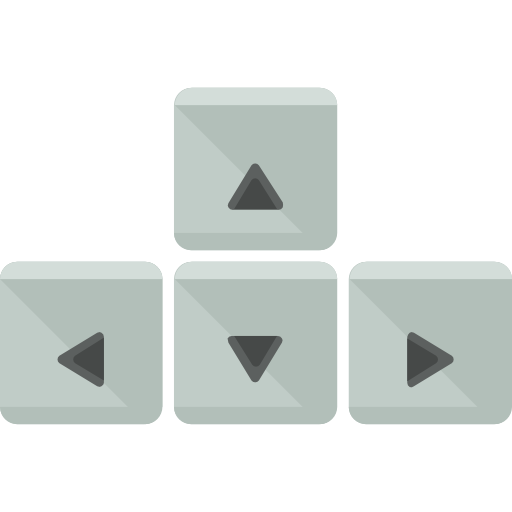
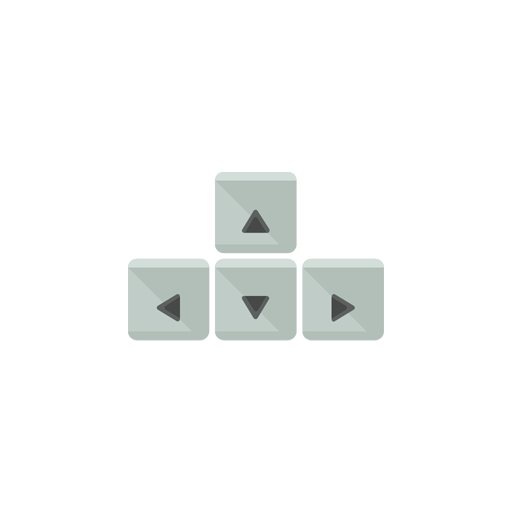
fix: styling

diff --git a/client/game/scenes/DestinationRoom.js b/client/game/scenes/DestinationRoom.js
@@ -2,6 +2,12 @@ import Phaser from 'phaser';
 // import Avatar from '../sprites/Avatar';
 import store from '../../store';
 // import { getActiveUsers } from '../../store/reducers/room';
+
+const fontStyleQuestion = {
+  font: '6em Indie Flower',
+  fill: 'tomato',
+  align: 'center'
+};
 const avatarStr = 'avatar';
 export default class DestinationRoom extends Phaser.Scene {
   constructor() {
@@ -42,6 +48,13 @@ export default class DestinationRoom extends Phaser.Scene {
     );
     this.bg.displayWidth = this.game.config.width;
     this.bg.displayHeight = this.game.config.height;
+
+    this.add.text(
+      this.bg.displayWidth / 3,
+      0.1 * this.bg.displayHeight / 4,
+      'Meet some new friends!',
+      fontStyleQuestion
+    );
 
     room.map((rm, idx) => {
       console.log(rm);

diff --git a/client/game/main.js b/client/game/main.js
@@ -24,6 +24,8 @@ import QuestionEighteen from './scenes/QuestionEighteen.js';
 import QuestionNineteen from './scenes/QuestionNineteen.js';
 import QuestionTwenty from './scenes/QuestionTwenty.js';
 import QuestionTwentyOne from './scenes/QuestionTwentyOne.js';
+import QuestionForaging from './scenes/QuestionForaging.js';
+import QuestionStay from './scenes/QuestionStay.js';
 import DestinationRoom from './scenes/DestinationRoom.js';
 import TrollHole from './scenes/TrollHole.js';
 
@@ -52,6 +54,8 @@ const gameConfig = Object.assign(config, {
     QuestionNineteen,
     QuestionTwenty,
     QuestionTwentyOne,
+    QuestionForaging,
+    QuestionStay,
     DestinationRoom,
     TrollHole
   ]

diff --git a/client/game/scenes/Splash.js b/client/game/scenes/Splash.js
@@ -81,8 +81,8 @@ export default class Splash extends Phaser.Scene {
       this
     );
     this.add.image(
-      this.game.config.width / 2,
-      this.game.config.height / 2,
+      this.game.config.width / 2 + 100,
+      this.game.config.height / 2 + 40,
       'arrows'
     );
     this.cursors = this.input.keyboard.createCursorKeys();

diff --git a/client/game/scenes/QuestionTen.js b/client/game/scenes/QuestionTen.js
@@ -123,7 +123,7 @@ export default class QuestionTen extends Phaser.Scene {
       this.avatar,
       this.physicsObjectA,
       () => {
-        this.scene.start('QuestionTwenty');
+        this.scene.start('DestinationRoom');
       },
       null,
       this

diff --git a/client/game/scenes/QuestionOne.js b/client/game/scenes/QuestionOne.js
@@ -142,7 +142,7 @@ export default class QuestionOne extends Phaser.Scene {
       this.avatar,
       this.physicsObjectB,
       () => {
-        this.scene.start('QuestionThree');
+        this.scene.start('DestinationRoom');
       },
       null,
       this
